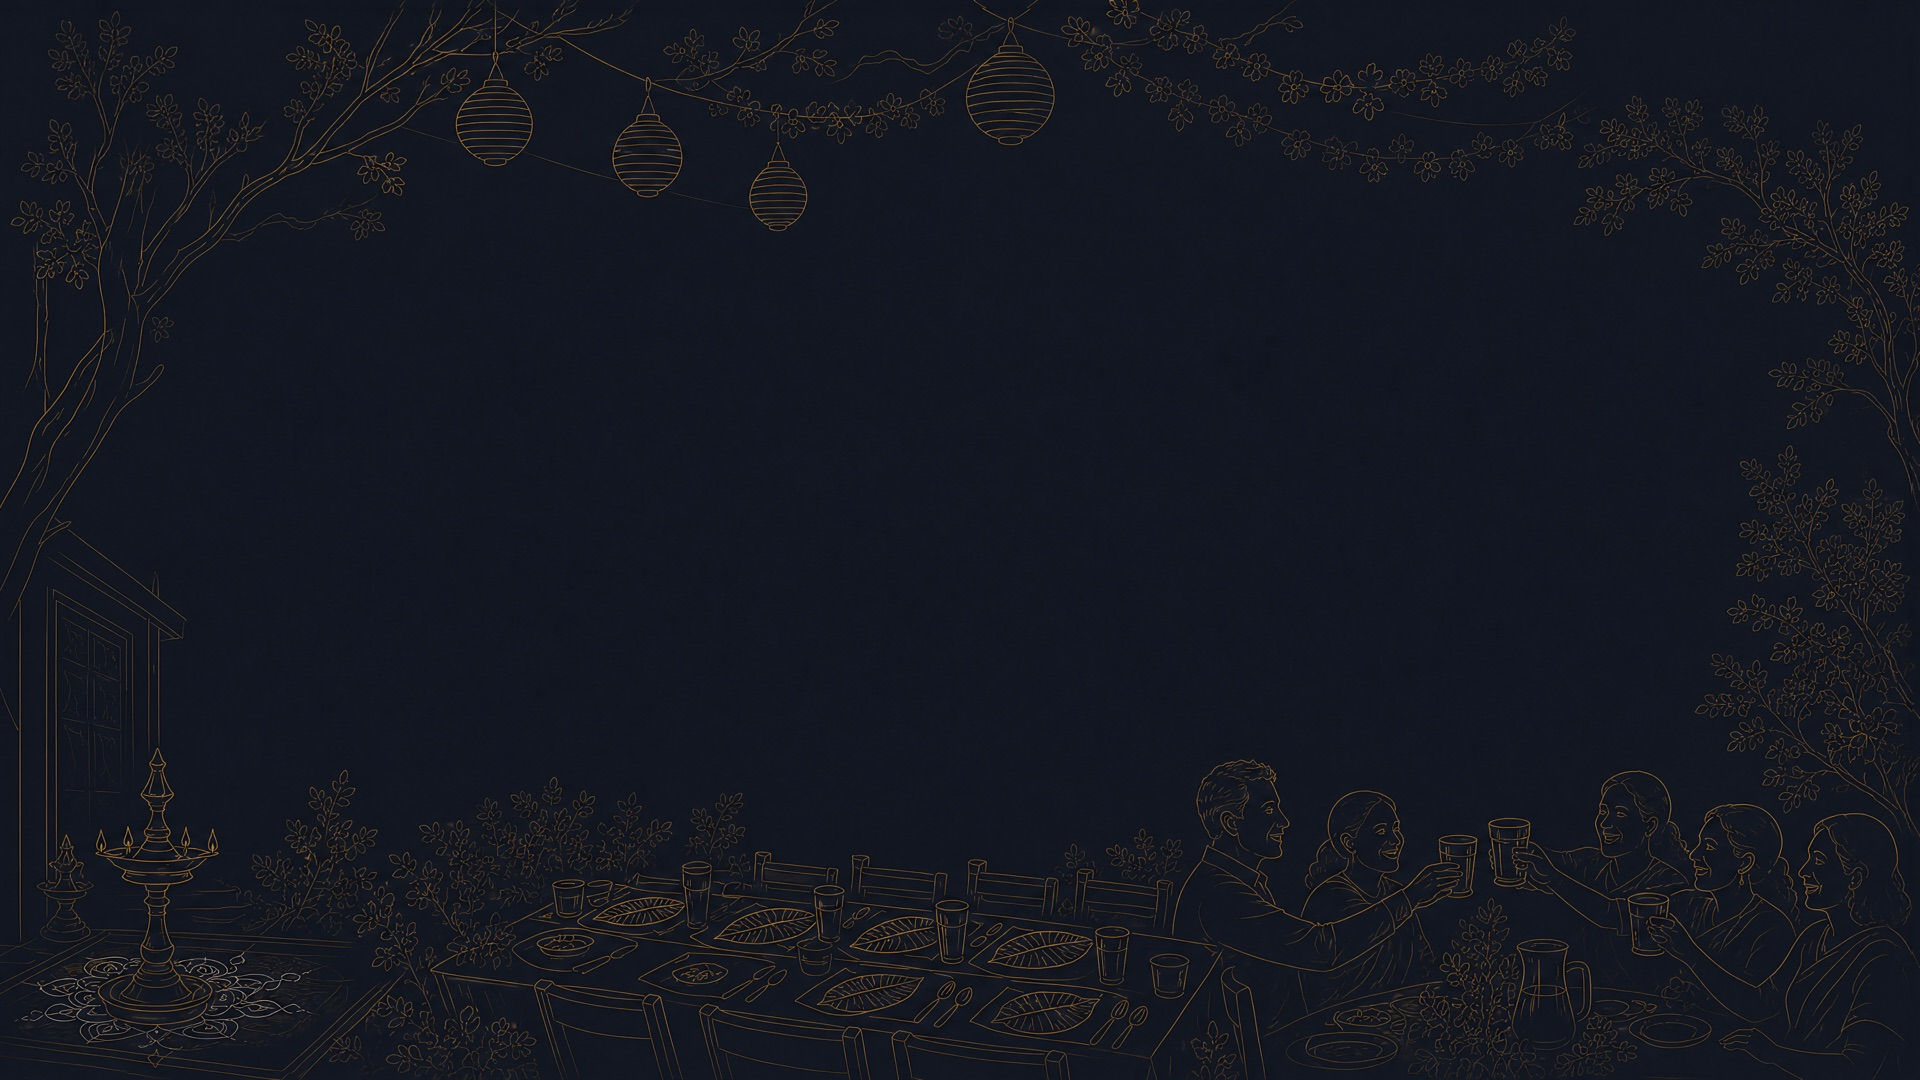
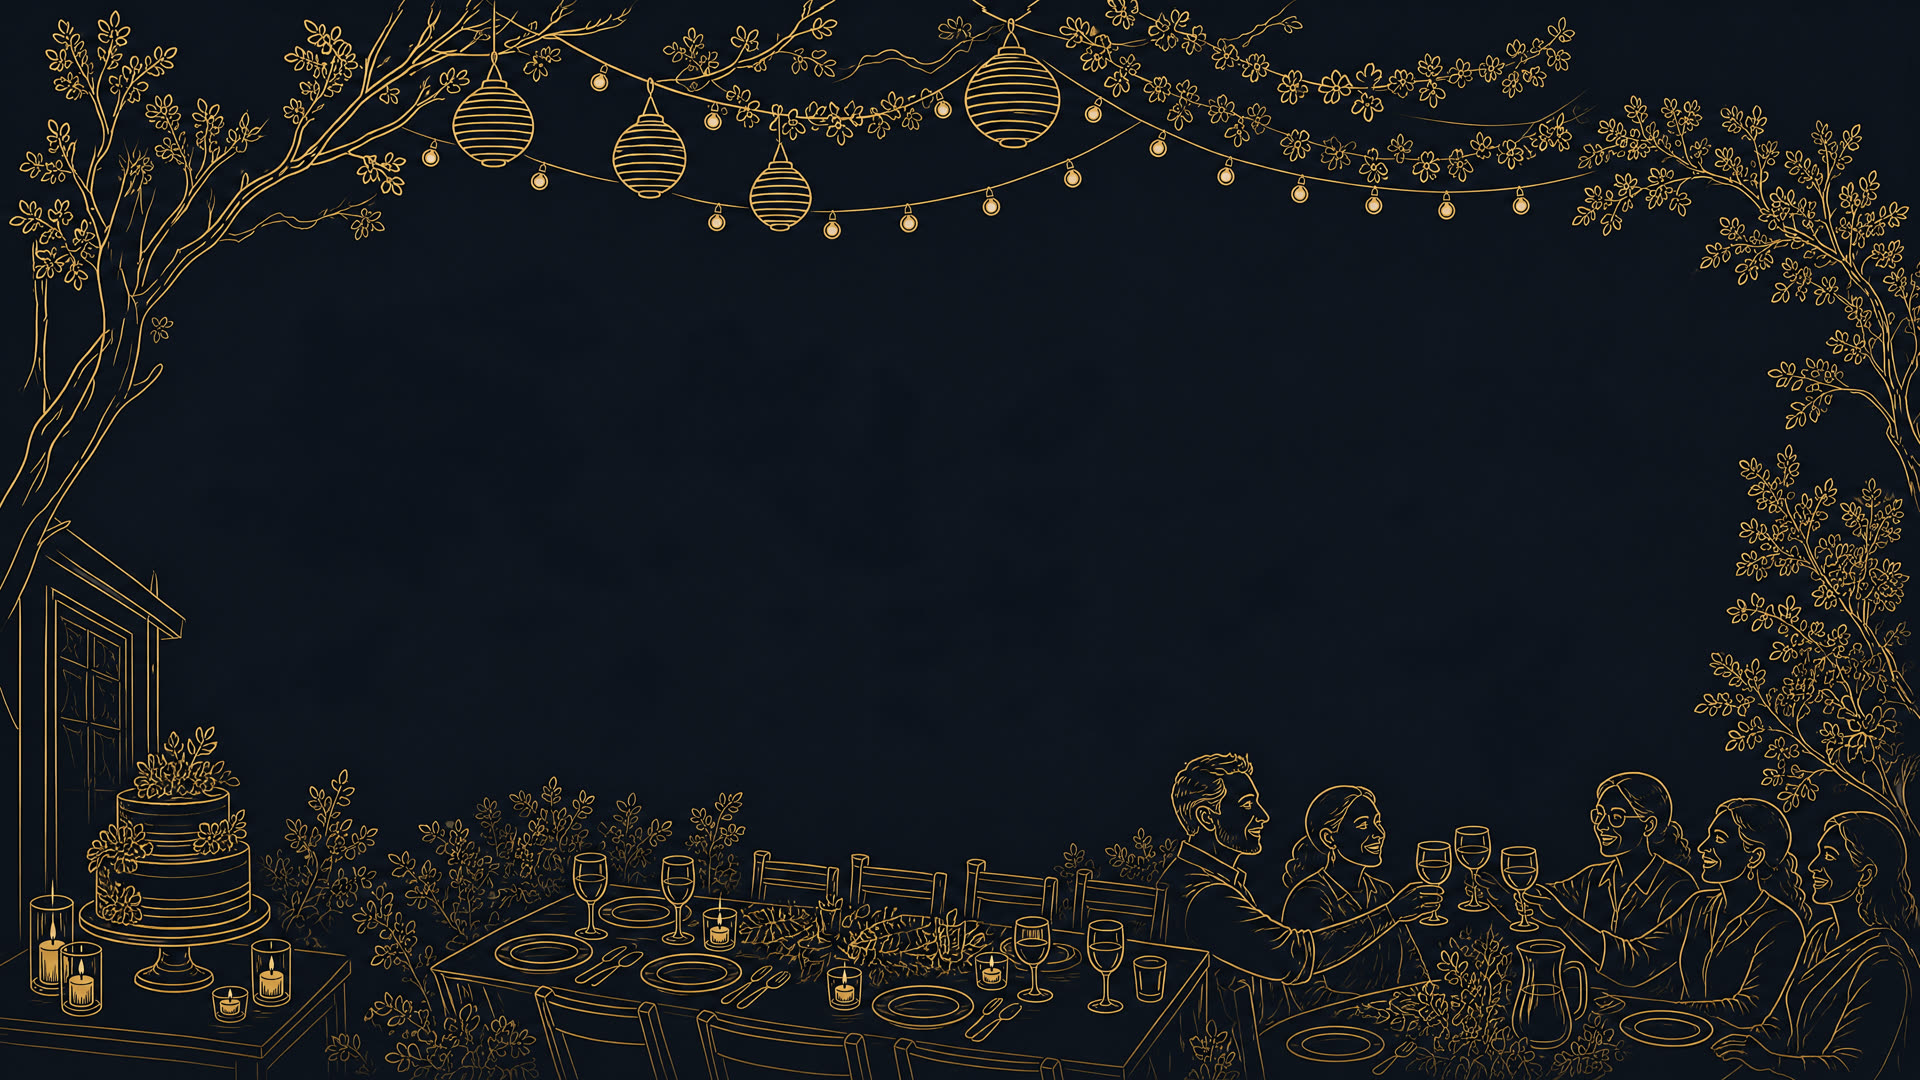
A Western-style drawing, stronger in both themes, behind every page
The line drawing behind the home page swaps the oil lamp, kolam and
leaf plates for a celebration cake, candles, string lights, wine glasses
and round plates, and its gold lines are drawn bolder. It shows much
more clearly in both themes, with a soft halo behind text that sits on
its lines. The same drawing now frames the sign-in, pricing, how it
works, privacy and terms pages, fading out where their content sits,
and appears faintly around the edges inside the app.

The example at the top of the home page follows the visitor's region:
Mom's 60th in Austin outside India, a 30th birthday dinner in Chennai
or New Delhi in India. The note under the two ways to plan now says the
co-pilot is free to use until launch and links to pricing.

Changed region(s): [[0.0, 0.0, 1.0, 1.0], [0.6562, 0.0, 0.6875, 0.0306]]

diff --git a/src/styles/running-status.css b/src/styles/running-status.css
@@ -21,8 +21,8 @@
 /* Full bleed, fading out at the foot so the hero runs into the next section rather than stopping. */
 .rs__plate img { position: absolute; inset: 0; width: 100%; height: 100%;
   -webkit-mask-image: linear-gradient(#000 82%, transparent); mask-image: linear-gradient(#000 82%, transparent); }
-.rs__plate img { object-fit: cover; object-position: center; display: block; opacity: 0.85; }
-:root:not([data-theme="dark"]) .rs__plate img { filter: invert(1) hue-rotate(180deg) saturate(0.6) brightness(1.04); opacity: 0.55; }
+.rs__plate img { object-fit: cover; object-position: center; display: block; opacity: 1; }
+:root:not([data-theme="dark"]) .rs__plate img { filter: invert(1) hue-rotate(180deg) saturate(1.1) contrast(1.15) brightness(1.04); opacity: 0.8; }
 
 .rs__nav { position: absolute; inset: 0 0 auto 0; height: 0; }
 .rs__brand {
@@ -153,7 +153,7 @@
   .rs__step--waiting .rs__node { outline-width: 2px; outline-offset: -2px; }
   .rs__state { font-size: 0.72rem; }
   .rs__text { font-size: 0.92rem; white-space: normal; }
-  .rs__plate img { object-position: 22% bottom; opacity: 0.6;
+  .rs__plate img { object-position: 22% bottom; opacity: 0.85;
     -webkit-mask-image: linear-gradient(transparent 38%, #000 70%, #000 88%, transparent); mask-image: linear-gradient(transparent 38%, #000 70%, #000 88%, transparent); }
 }
 @media (max-width: 520px) {
@@ -171,6 +171,7 @@
 .rs-h2 em { font-family: var(--font-display-italic); font-style: italic; color: var(--color-accent); }
 .rs-lede { margin: 0; max-width: 38rem; font-size: clamp(1.05rem, 1.3vw, 1.2rem); line-height: 1.65; color: var(--color-muted); }
 .rs-note { margin: 22px 0 0; font-size: 0.95rem; color: var(--color-quiet); }
+.rs-note a { color: var(--color-accent); text-decoration: underline; text-underline-offset: 2px; }
 .rs-split { display: grid; grid-template-columns: minmax(0, 1fr) minmax(0, 1.1fr); gap: clamp(40px, 6vw, 96px); align-items: center; }
 .rs-split--reverse > :first-child { order: 2; }
 
@@ -186,13 +187,13 @@
 .rs-sec { position: relative; isolation: isolate; overflow: hidden; }
 .rs-sec--plate-left::before, .rs-sec--plate-right::before {
   content: ""; position: absolute; z-index: -1; bottom: 0; width: min(42vw, 620px); height: 85%;
-  background: url("/plates/backdrop-1920.jpg") no-repeat; background-size: auto 160%; opacity: 0.4; pointer-events: none;
+  background: url("/plates/backdrop-1920.jpg") no-repeat; background-size: auto 160%; opacity: 0.65; pointer-events: none;
 }
 .rs-sec--plate-left::before { left: 0; background-position: left bottom;
   -webkit-mask-image: radial-gradient(120% 100% at 0% 100%, #000 35%, transparent 75%); mask-image: radial-gradient(120% 100% at 0% 100%, #000 35%, transparent 75%); }
 .rs-sec--plate-right::before { right: 0; background-position: right bottom;
   -webkit-mask-image: radial-gradient(120% 100% at 100% 100%, #000 35%, transparent 75%); mask-image: radial-gradient(120% 100% at 100% 100%, #000 35%, transparent 75%); }
-:root:not([data-theme="dark"]) .rs-sec--plate-left::before, :root:not([data-theme="dark"]) .rs-sec--plate-right::before { filter: invert(1) hue-rotate(180deg) saturate(0.6); opacity: 0.25; }
+:root:not([data-theme="dark"]) .rs-sec--plate-left::before, :root:not([data-theme="dark"]) .rs-sec--plate-right::before { filter: invert(1) hue-rotate(180deg) saturate(1.1) contrast(1.15); opacity: 0.5; }
 
 /* Two ways to plan. */
 .rs-ways { display: grid; grid-template-columns: repeat(2, minmax(0, 1fr)); gap: 20px; margin-top: 36px; }
@@ -228,8 +229,8 @@
 
 /* The close: the hero's promise once more, with its one action. */
 .rs-close { position: relative; padding-block: clamp(88px, 10vw, 148px); background: var(--color-paper); border-top: 1px solid var(--color-line); overflow: hidden; }
-.rs-close::before { content: ""; position: absolute; inset: auto 0 0 0; height: 70%; background: url("/plates/backdrop-1920.jpg") center bottom / cover no-repeat; opacity: 0.35; pointer-events: none; -webkit-mask-image: linear-gradient(transparent, #000 60%); mask-image: linear-gradient(transparent, #000 60%); }
-:root:not([data-theme="dark"]) .rs-close::before { filter: invert(1) hue-rotate(180deg) saturate(0.6); opacity: 0.25; }
+.rs-close::before { content: ""; position: absolute; inset: auto 0 0 0; height: 70%; background: url("/plates/backdrop-1920.jpg") center bottom / cover no-repeat; opacity: 0.6; pointer-events: none; -webkit-mask-image: linear-gradient(transparent, #000 60%); mask-image: linear-gradient(transparent, #000 60%); }
+:root:not([data-theme="dark"]) .rs-close::before { filter: invert(1) hue-rotate(180deg) saturate(1.1) contrast(1.15); opacity: 0.5; }
 .rs-close__inner { position: relative; display: grid; justify-items: center; text-align: center; }
 .rs-close__inner .rs-lede { margin-inline: auto; }
 .rs-close__cta { margin-top: 32px; height: 52px; min-width: 0; padding: 0 30px; font-size: 1.05rem; }
@@ -262,3 +263,8 @@
 }
 .rs-foot-mark { display: inline-flex; align-items: center; gap: 10px; }
 .rs-foot-mark img { border-radius: 7px; }
+
+/* With the drawing at full strength, text that sits on its lines gets a soft halo in the page colour. */
+.rs__brand, .rs__link, .rs__status-title, .rs__example, .rs__event, .rs-line__title, .rs-line__text {
+  text-shadow: 0 0 6px var(--color-paper), 0 0 12px var(--color-paper), 0 0 20px var(--color-paper);
+}

diff --git a/src/pages/LandingPage.tsx b/src/pages/LandingPage.tsx
@@ -13,8 +13,8 @@ type StepState = "done" | "now" | "waiting" | "next";
 const STATE_LABEL: Record<StepState, string> = { done: "Done", now: "Now", waiting: "Waiting", next: "Next" };
 
 /** The example event's running status: what the co-pilot has done, is doing and will do next. */
-const ROUTE: { state: StepState; text: string }[] = [
-  { state: "done", text: "Plan set out: pooja at 9:00, lunch at 12:30" },
+const route = (plan: string): { state: StepState; text: string }[] => [
+  { state: "done", text: plan },
   { state: "done", text: "Found 8 caterers, 5 decorators and 3 photographers" },
   { state: "done", text: "Wrote to 6 of them from your event’s inbox" },
   { state: "now", text: "3 replies in, quotes lined up for you" },
@@ -31,7 +31,7 @@ const HOW = [
 ];
 
 const KINDS = [
-  { group: "Family and friends", items: ["Weddings and engagements", "Birthdays and milestone birthdays", "Anniversaries", "Housewarmings", "Baby showers and naming ceremonies", "Religious and cultural celebrations"] },
+  { group: "Family and friends", items: ["Birthdays and milestone birthdays", "Weddings and engagements", "Anniversaries", "Housewarmings", "Baby showers and naming ceremonies", "Religious and cultural celebrations"] },
   { group: "Work and community", items: ["Office parties", "Team offsites", "Product launches", "Conferences", "College fests", "Community festivals"] },
 ];
 
@@ -42,7 +42,7 @@ export function LandingPage() {
     <div className="lp">
       <a href="#main" className="lp-skip">Skip to content</a>
       <section className="rs" aria-labelledby="hero-title">
-        {/* The event, drawn in fine line behind the promise: lanterns, a lamp and kolam, a long lunch. */}
+        {/* The event, drawn in fine line behind the promise: lanterns, string lights, a long dinner table. */}
         <picture className="rs__plate" aria-hidden="true">
           <source media="(min-width: 1600px)" srcSet="/plates/backdrop-3840.jpg" />
           <img src="/plates/backdrop-1920.jpg" alt="" fetchPriority="high" />
@@ -80,10 +80,10 @@ export function LandingPage() {
             <h2 id="status-title" className="rs__status-title">The co-pilot at work</h2>
             <p className="rs__example">Example</p>
             <p className="rs__event">
-              <span>Amma&rsquo;s 60th</span> · <span>Chennai</span> · <span>Sat 24 Jan</span> · about 120 people
+              <span>{ex.hero.event}</span> · <span>{ex.hero.city}</span> · <span>Sat 24 Jan</span> · about {ex.hero.people} people
             </p>
             <ol className="rs__route">
-              {ROUTE.map((s, i) => (
+              {route(ex.hero.plan).map((s, i) => (
                 <li key={s.text} className={`rs__step rs__step--${s.state}`} style={{ "--i": i } as React.CSSProperties} aria-current={s.state === "now" ? "step" : undefined}>
                   <span className="rs__node" aria-hidden="true">
                     {s.state === "done" ? <Icon name="check" size={16} /> : null}
@@ -126,7 +126,7 @@ export function LandingPage() {
               <p className="rs-card__text">Everything the co-pilot does, plus people who plan it with you and are on the ground when the day needs them.</p>
             </article>
           </div>
-          <p className="rs-note">Both are coming soon.</p>
+          <p className="rs-note">Your co-pilot is free to use until launch; our team joins after launch. <Link to="/pricing">See pricing</Link>.</p>
         </div>
       </section>
 

diff --git a/src/lib/regionExamples.ts b/src/lib/regionExamples.ts
@@ -8,6 +8,8 @@ import { sampleFor } from "../../convex/lib/regions";
  */
 
 export type RegionExamples = {
+  /** The home page's example event at the top, and the first line of its running status. */
+  hero: { event: string; city: string; people: number; plan: string };
   /** A search as a host there would ask it. */
   search: string;
   /** One need's quotes, read into the same unit, and the spread between them. */
@@ -19,6 +21,7 @@ export type RegionExamples = {
 };
 
 const ELSEWHERE: RegionExamples = {
+  hero: { event: "Mom's 60th", city: "Austin", people: 80, plan: "Plan set out: drinks at 6:00, dinner at 7:30" },
   search: "venues near Austin for a two-day team offsite for 40",
   compare: {
     title: "Catering · team offsite dinner for 80",
@@ -37,6 +40,7 @@ const ELSEWHERE: RegionExamples = {
 };
 
 const CHENNAI: RegionExamples = {
+  hero: { event: "Anjali's 30th", city: "Chennai", people: 80, plan: "Plan set out: drinks at 7:00, dinner at 8:30" },
   search: "caterers in Chennai for a 60th birthday lunch, under ₹500 a plate",
   compare: {
     title: "Catering · housewarming lunch for 150",
@@ -55,6 +59,7 @@ const CHENNAI: RegionExamples = {
 };
 
 const DELHI: RegionExamples = {
+  hero: { event: "Rohan's 30th", city: "New Delhi", people: 80, plan: "Plan set out: drinks at 7:00, dinner at 8:30" },
   search: "banquet halls in Gurugram for an office Diwali party for 120",
   compare: {
     title: "Catering · office Diwali dinner for 150",

diff --git a/src/index.css b/src/index.css
@@ -231,3 +231,17 @@ a { text-underline-offset: 0.2em; }
 .walk-card { opacity: 0; transform: translateY(6px); pointer-events: none; }
 .walk-card[data-on] { opacity: 1; transform: none; pointer-events: auto; transition: opacity 180ms ease-out, transform 220ms cubic-bezier(0.16, 1, 0.3, 1); }
 @media (prefers-reduced-motion: reduce) { .walk-ring, .walk-ring[data-glide], .walk-card { transition: none; transform: none; } }
+
+/* The home page's drawing behind pages without a hero (src/components/ui/Backdrop.tsx). In the light
+   theme its ink and paper swap, as on the home page, so the lines read as gold ink on ivory. */
+.backdrop {
+  position: fixed; inset: 0; z-index: -1; pointer-events: none;
+  background: url("/plates/backdrop-1920.jpg") center bottom / cover no-repeat;
+  opacity: 0.7;
+  -webkit-mask-image: radial-gradient(72% 70% at 50% 42%, transparent 48%, #000 96%);
+  mask-image: radial-gradient(72% 70% at 50% 42%, transparent 48%, #000 96%);
+}
+:root:not([data-theme="dark"]) .backdrop { filter: invert(1) hue-rotate(180deg) saturate(1.1) contrast(1.15); opacity: 0.55; }
+.backdrop--quiet { opacity: 0.35; }
+:root:not([data-theme="dark"]) .backdrop--quiet { opacity: 0.3; }
+@media (min-width: 1600px) { .backdrop { background-image: url("/plates/backdrop-3840.jpg"); } }

diff --git a/src/pages/HowItWorksPage.tsx b/src/pages/HowItWorksPage.tsx
@@ -4,6 +4,7 @@ import { BRAND } from "../lib/brand";
 import { useRegion } from "../lib/region";
 import { examplesFor } from "../lib/regionExamples";
 import { ThemeFooter } from "../components/ui/ThemeFooter";
+import { Backdrop } from "../components/ui/Backdrop";
 
 const steps = (search: string) => [
   { t: "Talk it through", d: `Say what you're planning in your own words. ${BRAND.name} asks for whatever it still needs, reads it all back for you to confirm, and points out anything that can't be right. Then it sets out each day or session, splits the budget and lists the vendors you'll need.` },
@@ -15,7 +16,8 @@ const steps = (search: string) => [
 export function HowItWorksPage() {
   const { search } = examplesFor(useRegion());
   return (
-    <main id="main" className="mx-auto max-w-3xl px-4 py-10">
+    <main id="main" className="isolate mx-auto max-w-3xl px-4 py-10">
+      <Backdrop />
       <Link to="/" className="display text-2xl tracking-tight" aria-label={`${BRAND.name} home`}>
         <PlusOneMark />
       </Link>

diff --git a/src/components/EventLayout.tsx b/src/components/EventLayout.tsx
@@ -15,6 +15,7 @@ import { FeedbackBox } from "./FeedbackBox";
 import { AssistantDrawer } from "./assistant/AssistantDrawer";
 import { BRAND } from "../lib/brand";
 import { PartWord, PeopleWord } from "../lib/words";
+import { Backdrop } from "./ui/Backdrop";
 
 /** The sample events, by kind, for the demo banner's links. */
 const SAMPLES = [
@@ -148,7 +149,8 @@ export function EventLayout() {
   );
 
   return (
-    <div className="min-h-screen pb-[calc(64px+env(safe-area-inset-bottom))] md:pb-0 print:pb-0">
+    <div className="isolate min-h-screen pb-[calc(64px+env(safe-area-inset-bottom))] md:pb-0 print:pb-0">
+      <Backdrop quiet />
       <header className="shell-bar no-print sticky top-0 z-30">
         <div className="mx-auto flex h-14 max-w-[1240px] items-center gap-3 px-4 md:gap-5 md:px-6">
           <Link to="/" className="display shrink-0 text-[1.3rem] tracking-tight text-accent" aria-label={`${BRAND.name}: all your events`}>

diff --git a/src/pages/PrivacyPage.tsx b/src/pages/PrivacyPage.tsx
@@ -6,6 +6,7 @@ import { GRIEVANCE_OFFICER, LEGAL_EFFECTIVE, PRIVACY_UPDATED } from "../lib/lega
 import { setConsent, useConsent } from "../lib/analytics/consent";
 import { ANALYTICS_ENABLED } from "../lib/analytics/client";
 import { ThemeFooter } from "../components/ui/ThemeFooter";
+import { Backdrop } from "../components/ui/Backdrop";
 
 function Mail({ to }: { to: string }) {
   return (
@@ -32,7 +33,8 @@ export function PrivacyPage() {
   const consent = useConsent();
   const hello = `hello@${BRAND.domain}`;
   return (
-    <main id="main" className="mx-auto w-full max-w-[44rem] px-5 py-12 md:px-8">
+    <main id="main" className="isolate mx-auto w-full max-w-[44rem] px-5 py-12 md:px-8">
+      <Backdrop />
       <Link to="/" className="display text-2xl tracking-tight text-accent" aria-label={`${BRAND.name} home`}>
         <PlusOneMark />
       </Link>

diff --git a/src/pages/PricingPage.tsx b/src/pages/PricingPage.tsx
@@ -6,6 +6,7 @@ import { BRAND } from "../lib/brand";
 import { money } from "../lib/format";
 import { monthlyPrice, type PlanId } from "../lib/pricing";
 import { useRegion } from "../lib/region";
+import { Backdrop } from "../components/ui/Backdrop";
 
 const PLANS: { id: PlanId; name: string; line: string; status: string; when: string; includes: string[] }[] = [
   {
@@ -46,7 +47,8 @@ const PLANS: { id: PlanId; name: string; line: string; status: string; when: str
 export function PricingPage() {
   const region = useRegion();
   return (
-    <main id="main" className="mx-auto max-w-4xl px-4 py-10">
+    <main id="main" className="isolate mx-auto max-w-4xl px-4 py-10">
+      <Backdrop />
       <Link to="/" className="display text-2xl tracking-tight" aria-label={`${BRAND.name} home`}>
         <PlusOneMark />
       </Link>

diff --git a/src/pages/SignInPage.tsx b/src/pages/SignInPage.tsx
@@ -6,6 +6,7 @@ import { useAuthActions } from "../lib/session";
 import { BRAND } from "../lib/brand";
 import { ThemeFooter } from "../components/ui/ThemeFooter";
 import { pendingAgreement, rememberAgreement, TERMS_VERSION } from "../lib/terms";
+import { Backdrop } from "../components/ui/Backdrop";
 
 /**
  * Sign in or create an account. The form itself is Clerk's (email and password, a code
@@ -27,7 +28,8 @@ export function SignInPage({ redirectTo }: { redirectTo?: string }) {
   };
 
   return (
-    <main id="main" className="grid min-h-screen place-items-center px-4 py-10">
+    <main id="main" className="relative isolate grid min-h-screen place-items-center px-4 py-10">
+      <Backdrop />
       <div className="w-full max-w-md">
         <p className="display text-4xl tracking-tight">
           <PlusOneMark />

diff --git a/src/pages/HomePage.tsx b/src/pages/HomePage.tsx
@@ -9,6 +9,7 @@ import { UserChip } from "../components/ui/UserChip";
 import { PlusOneMark } from "../components/brand/Wordmarks";
 import { BRAND } from "../lib/brand";
 import { occasionNoun } from "../../convex/lib/occasion";
+import { Backdrop } from "../components/ui/Backdrop";
 
 /** Each card is nudged a degree or two off square, like prints on a board. */
 const TILTS = ["-2.5deg", "1.8deg", "-1.2deg", "2.4deg", "-1.9deg", "1.3deg"];
@@ -91,7 +92,8 @@ export function HomePage() {
   }
 
   return (
-    <div className="min-h-[100dvh] bg-paper">
+    <div className="isolate min-h-[100dvh] bg-paper">
+      <Backdrop quiet />
       {/* One quiet marigold wash at the top, and nothing else behind the prints. */}
       <div
         aria-hidden="true"

diff --git a/src/pages/TermsPage.tsx b/src/pages/TermsPage.tsx
@@ -3,11 +3,13 @@ import { PlusOneMark } from "../components/brand/Wordmarks";
 import { BRAND } from "../lib/brand";
 import { ThemeFooter } from "../components/ui/ThemeFooter";
 import { GRIEVANCE_OFFICER } from "../lib/legal";
+import { Backdrop } from "../components/ui/Backdrop";
 
 /** The terms anyone agrees to by using PlusOne. Public, like the privacy page. */
 export function TermsPage() {
   return (
-    <main id="main" className="mx-auto w-full max-w-[44rem] px-5 py-12 md:px-8">
+    <main id="main" className="isolate mx-auto w-full max-w-[44rem] px-5 py-12 md:px-8">
+      <Backdrop />
       <Link to="/" className="display text-2xl tracking-tight text-accent" aria-label={`${BRAND.name} home`}>
         <PlusOneMark />
       </Link>

diff --git a/src/components/ui/Backdrop.tsx b/src/components/ui/Backdrop.tsx
@@ -1,0 +1,9 @@
+/**
+ * The home page's line drawing behind a page that has no hero of its own. It fades out in the
+ * middle, where the page's own content sits, so it frames the page without getting in the way.
+ * `quiet` is for inside the app: the same drawing, fainter. The parent must be `isolate` so the
+ * drawing sits above its background and below its content.
+ */
+export function Backdrop({ quiet = false }: { quiet?: boolean }) {
+  return <div aria-hidden="true" className={`backdrop no-print${quiet ? " backdrop--quiet" : ""}`} />;
+}
